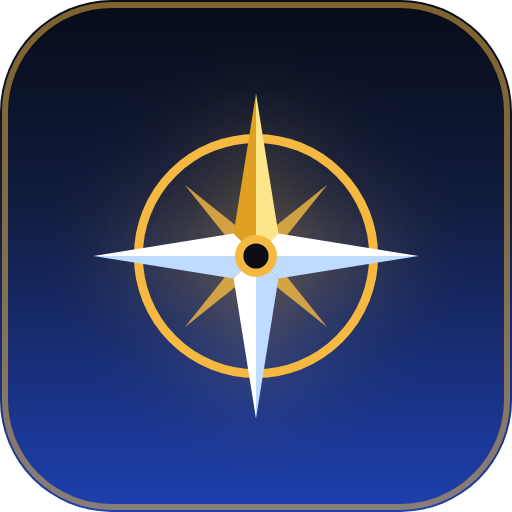
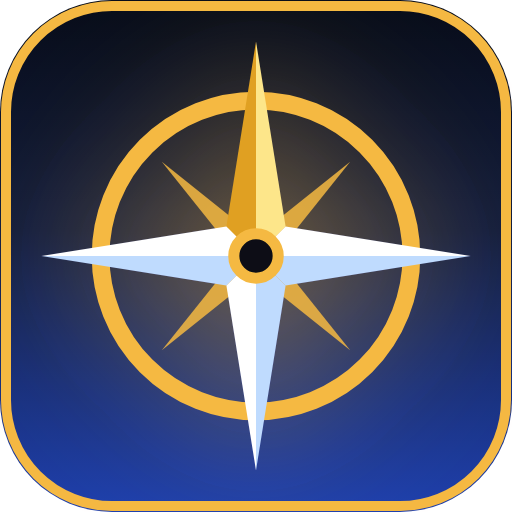
Ícone do app: rosa dos ventos maior com borda dourada (opção A)
Claude-Session: https://claude.ai/code/session_01Kn3FeTXp5Fvh4SKVb2J7jt

Changed region(s): [[0.0938, 0.0938, 0.9062, 0.9062], [0.0, 0.0, 1.0, 1.0]]

diff --git a/index.html b/index.html
@@ -23,9 +23,9 @@
     <meta name="twitter:description" content="Veja hoje com quanto cada um dos próximos meses vai terminar, decida melhor e faça sobrar. Grátis." />
     <meta name="twitter:image" content="https://www.compass-one.com.br/og-imagem.png" />
 
-    <link rel="icon" type="image/svg+xml" href="/icone.svg?v=4" />
+    <link rel="icon" type="image/svg+xml" href="/icone.svg?v=5" />
     <link rel="manifest" href="/manifest.webmanifest" />
-    <link rel="apple-touch-icon" href="/icone-180.png?v=4" />
+    <link rel="apple-touch-icon" href="/icone-180.png?v=5" />
     <meta name="theme-color" content="#101d4f" />
     <meta name="apple-mobile-web-app-capable" content="yes" />
     <meta name="apple-mobile-web-app-status-bar-style" content="default" />
@@ -40,7 +40,7 @@
             "@id": "https://www.compass-one.com.br/#organizacao",
             "name": "Compass One",
             "url": "https://www.compass-one.com.br/",
-            "logo": "https://www.compass-one.com.br/icone-512.png?v=4"
+            "logo": "https://www.compass-one.com.br/icone-512.png?v=5"
           },
           {
             "@type": "WebSite",

diff --git a/CLAUDE.md b/CLAUDE.md
@@ -3836,7 +3836,9 @@ valorizar a logo"; escolheu "1B com círculo" entre seis conceitos e as
 variações com o dourado do site, em `analises/cores-educador/estilo-site/login/`):
 estrela de quatro pontas, norte dourado (`#fde68a`/`#e0a020`), pontas brancas,
 diagonais e anel fino em `#f5b942`, brilho dourado. `NomeCompass`: halo
-dourado e "One" em `#fcd34d`. Ícones regerados (`?v=4`). O parágrafo acima
+dourado e "One" em `#fcd34d`. Ícones regerados (`?v=4`). No mesmo dia
+(Guilherme: "ficou bonita mas não se destaca" na tela do celular), o ÍCONE do
+app ganhou a rosa ocupando quase o quadrado e borda dourada (opção A; `?v=5`). O parágrafo acima
 sobre o "Fechado neon" é histórico; os componentes e a regra continuam.
 
 **Anéis, quadro neon e azul nos cards** (24/10/2026, escolhas do Guilherme
